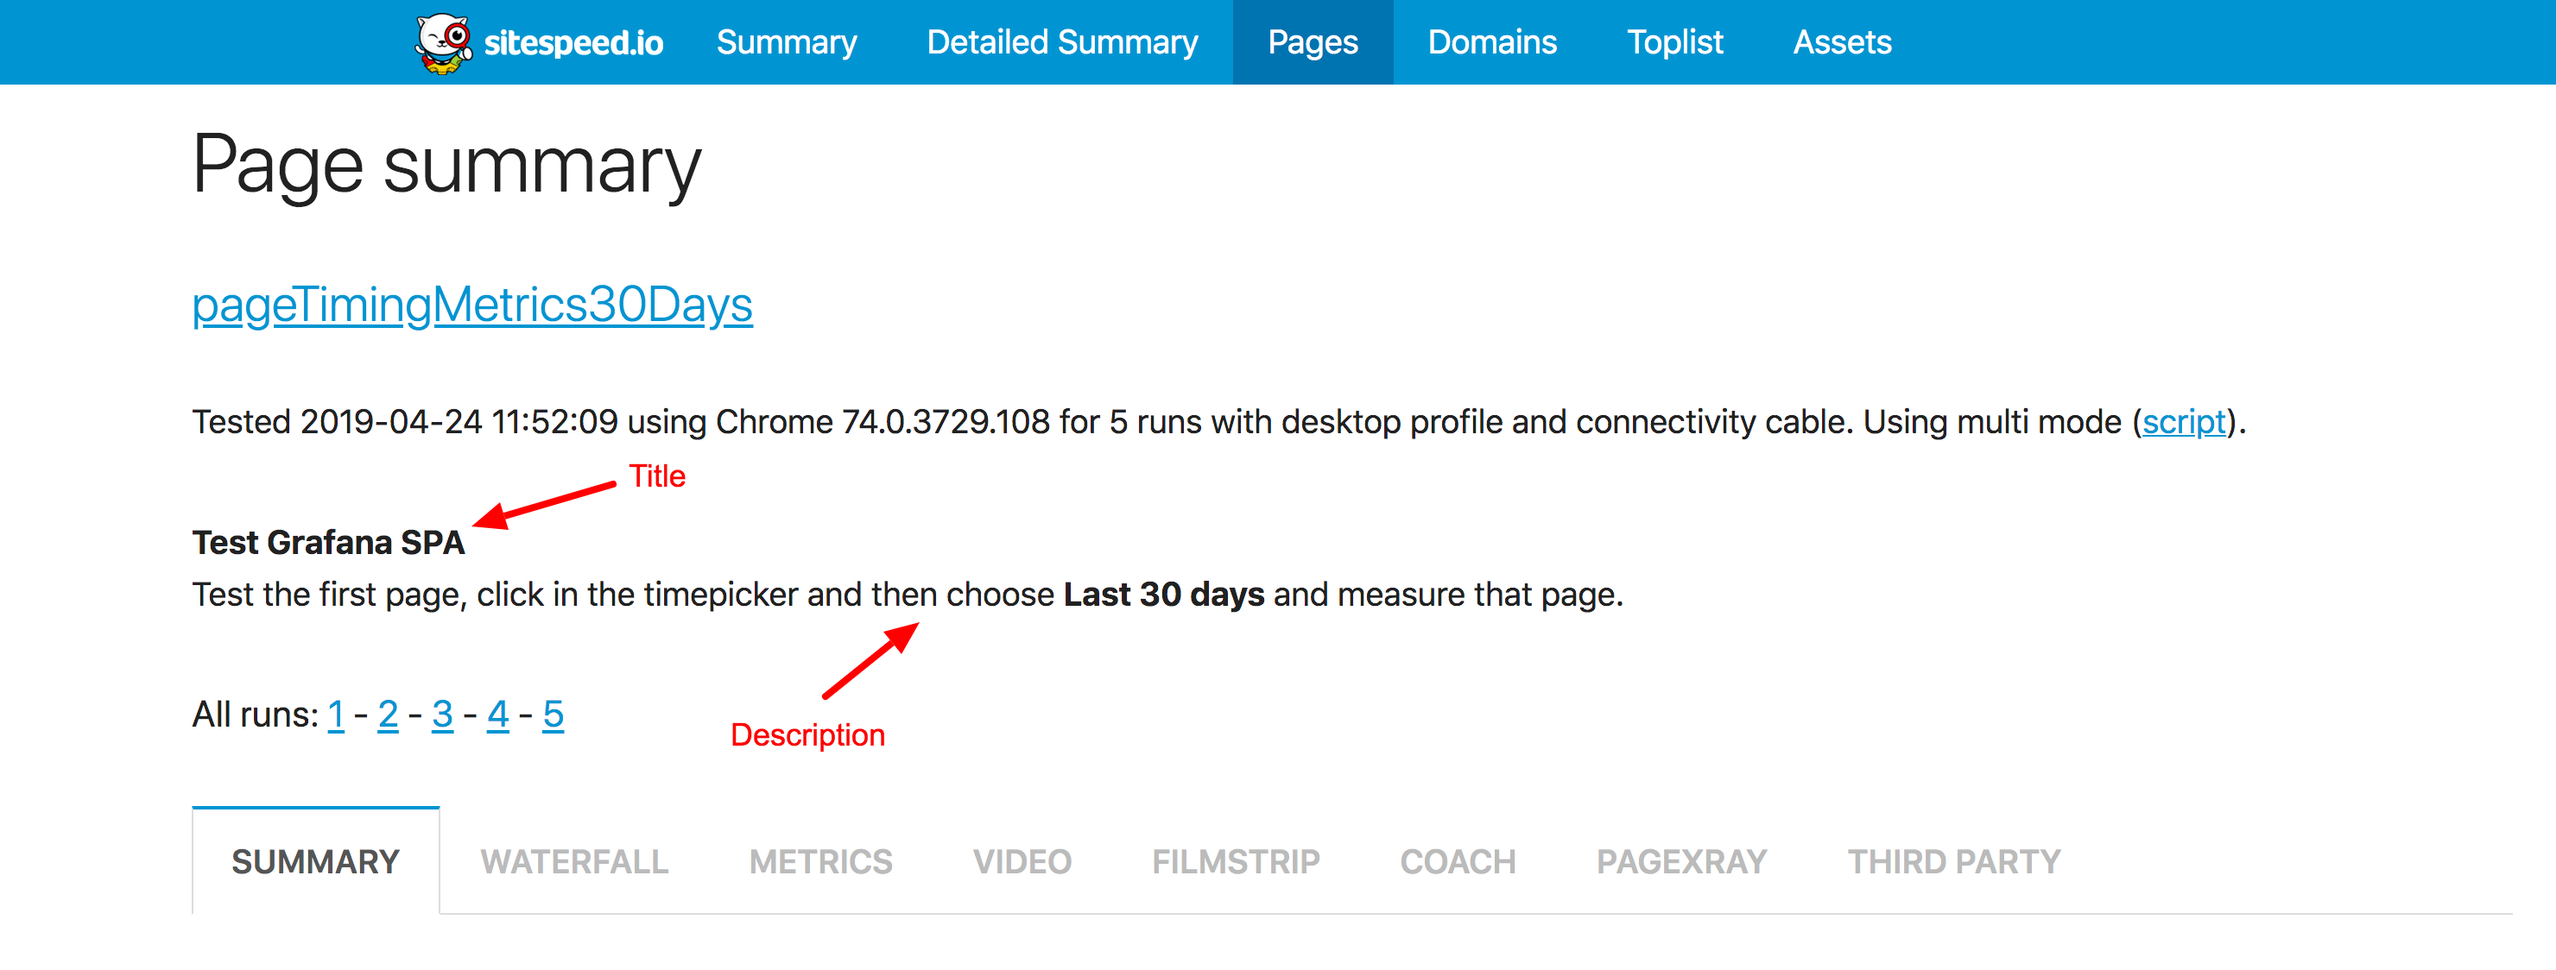
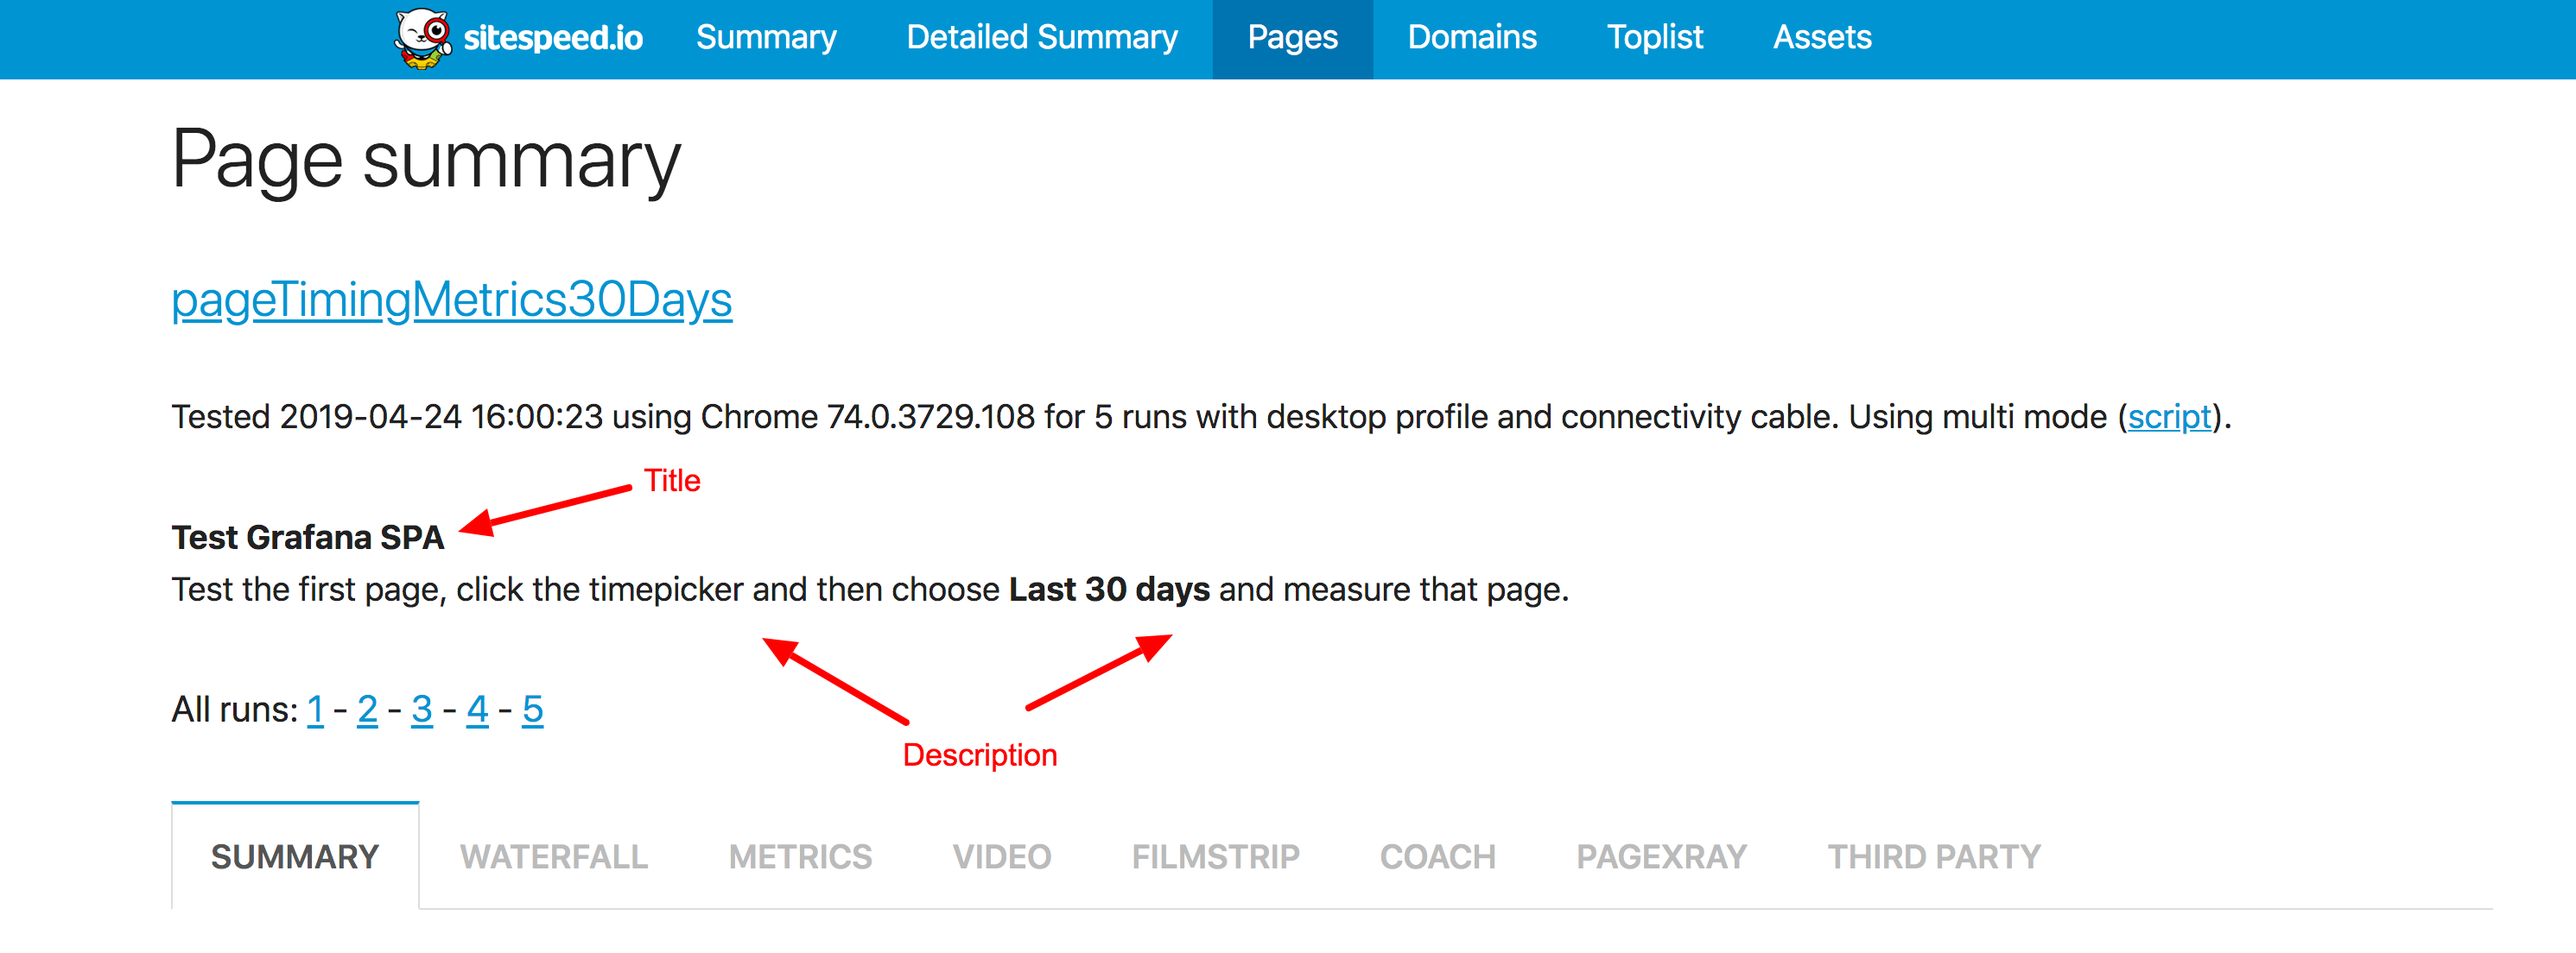
docs: updated text

diff --git a/docs/documentation/sitespeed.io/scripting/index.md b/docs/documentation/sitespeed.io/scripting/index.md
@@ -748,7 +748,7 @@ Setting meta data like this:
 ~~~javascript
 module.exports = async function(context, commands) {
   commands.meta.setTitle('Test Grafana SPA');
-  commands.meta.setDescription('Test the first page, click in the timepicker andthen choose <b>Last 30 days</b> and measure that page.');	
+  commands.meta.setDescription('Test the first page, click the timepicker andthen choose <b>Last 30 days</b> and measure that page.');	
   await commands.measure.start(
     'https://dashboard.sitespeed.io/d/000000044/page-timing-metrics?orgId=1','pageTimingMetricsDefault'
   );
